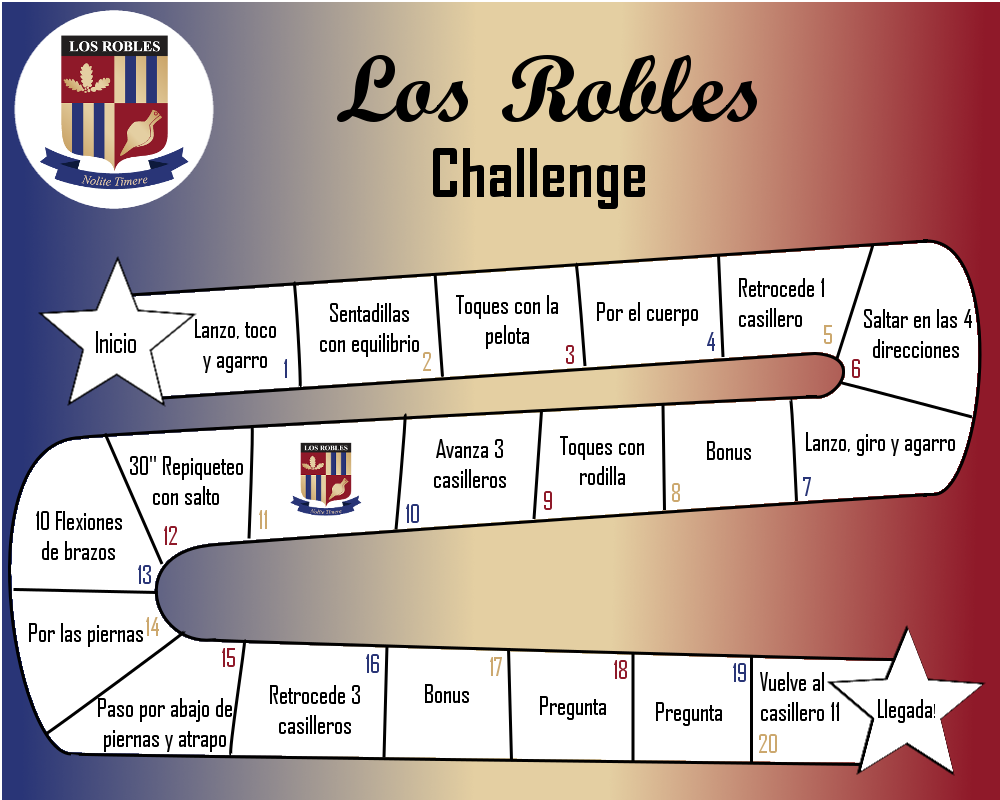
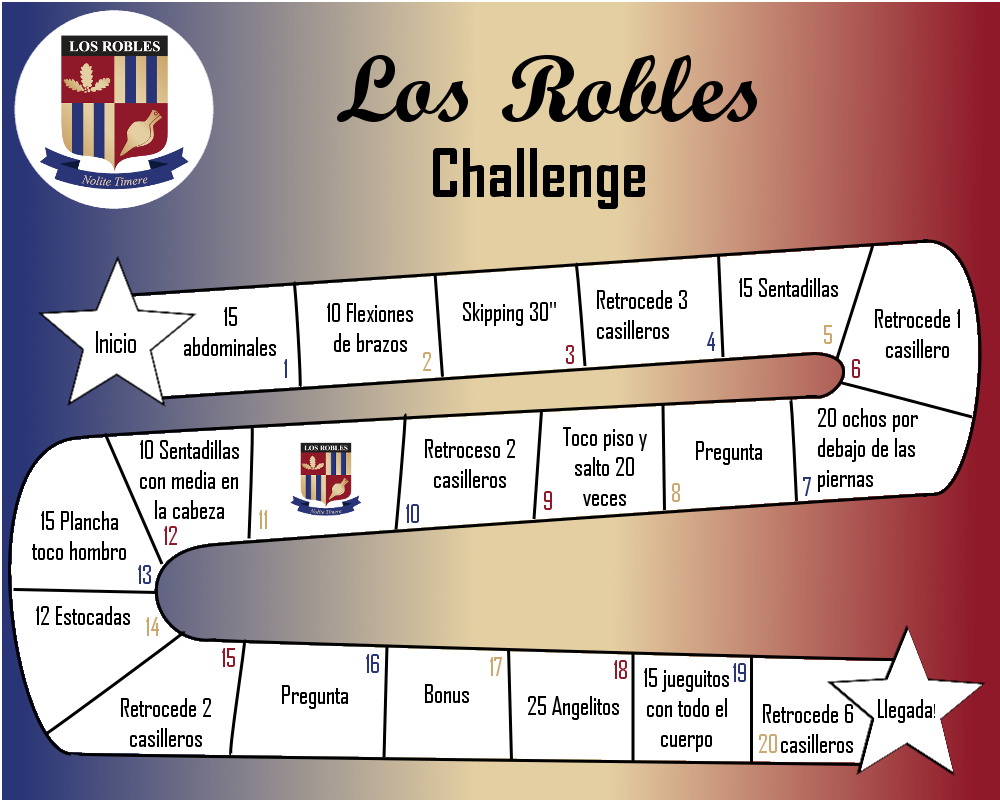
Tablero de laly

diff --git a/index.html b/index.html
@@ -68,7 +68,7 @@
       </div>
     </section>
     <section id="tablero">
-      <img class="tablero" src="LosRoblesChallengeBAUTI.png" alt="tablero" />
+      <img class="tablero" src="LosRoblesChallengeLALY.png" alt="tablero" />
     </section>
   </section>
   <script src="funciones.js"></script>
